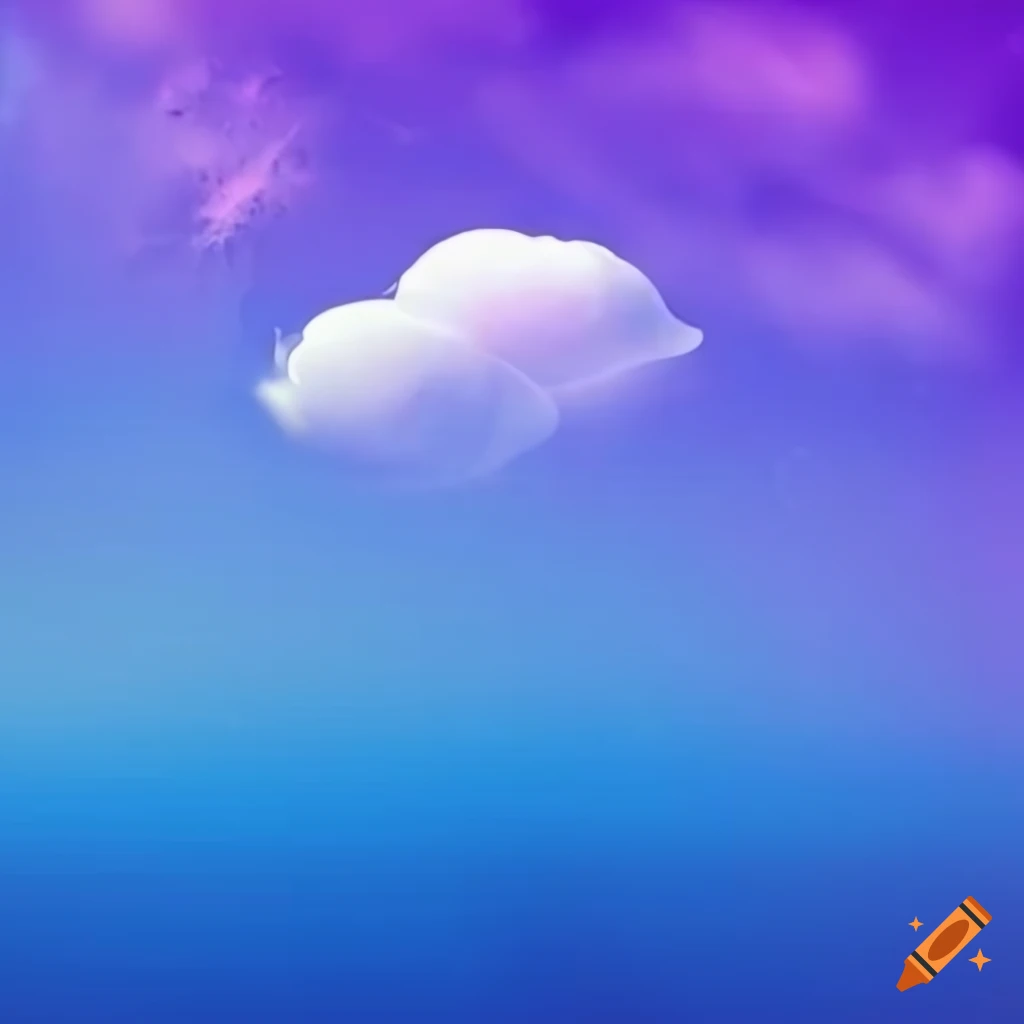
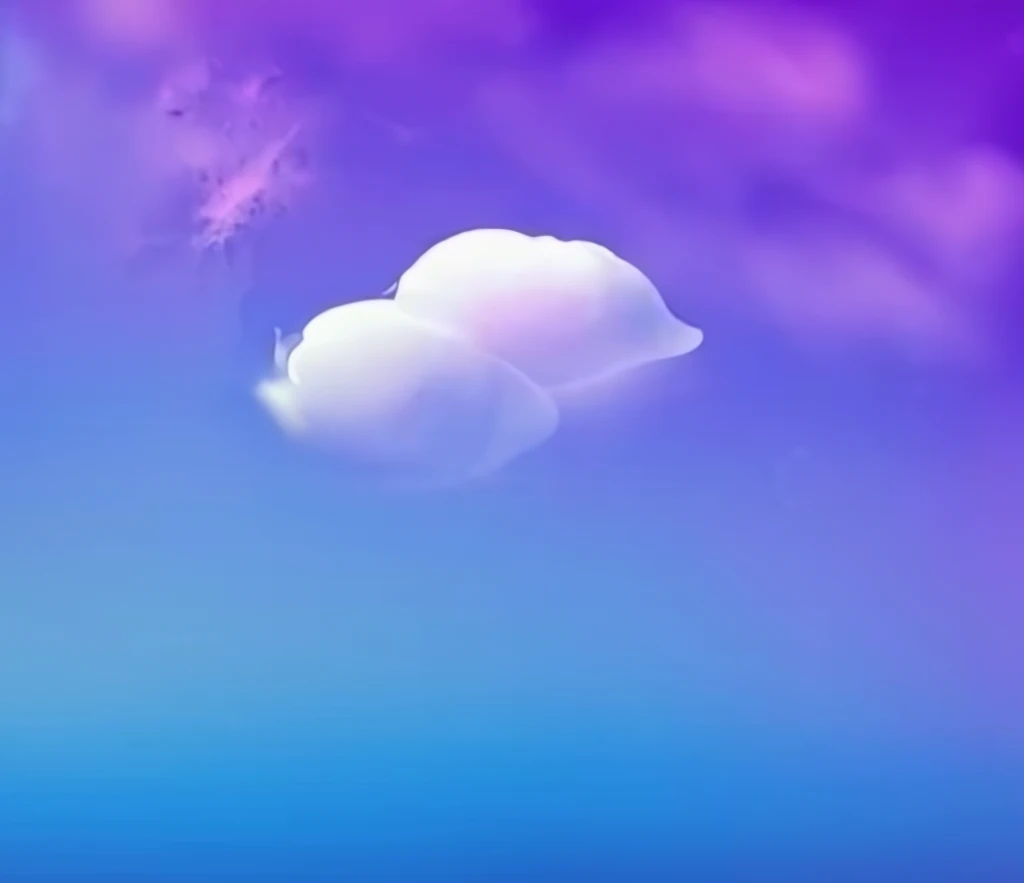
modified css file

diff --git a/weather.css b/weather.css
@@ -8,9 +8,10 @@ body{
 #container{
     height: 80vh;
     width: 80%;
-    position: relative;;
+    position: relative;
     background-image: url(craiyon_202022_a_image_for_background_weather_app__day.png);
     margin: 0 auto;
+    top: 10vh;
     text-align: center;
     align-content: center;
     margin-top: 60px;
@@ -38,6 +39,14 @@ button{
     height: 28px;
     border-radius: 5px;
     background-color:  #c1f0c1;
-    ;
+    
 
+}
+@media screen and (min-width: 310px) {
+    #container{
+        height: 80vh;
+        width: 80%;
+        margin: 0 auto;
+        background-size: cover;
+    }
 }
